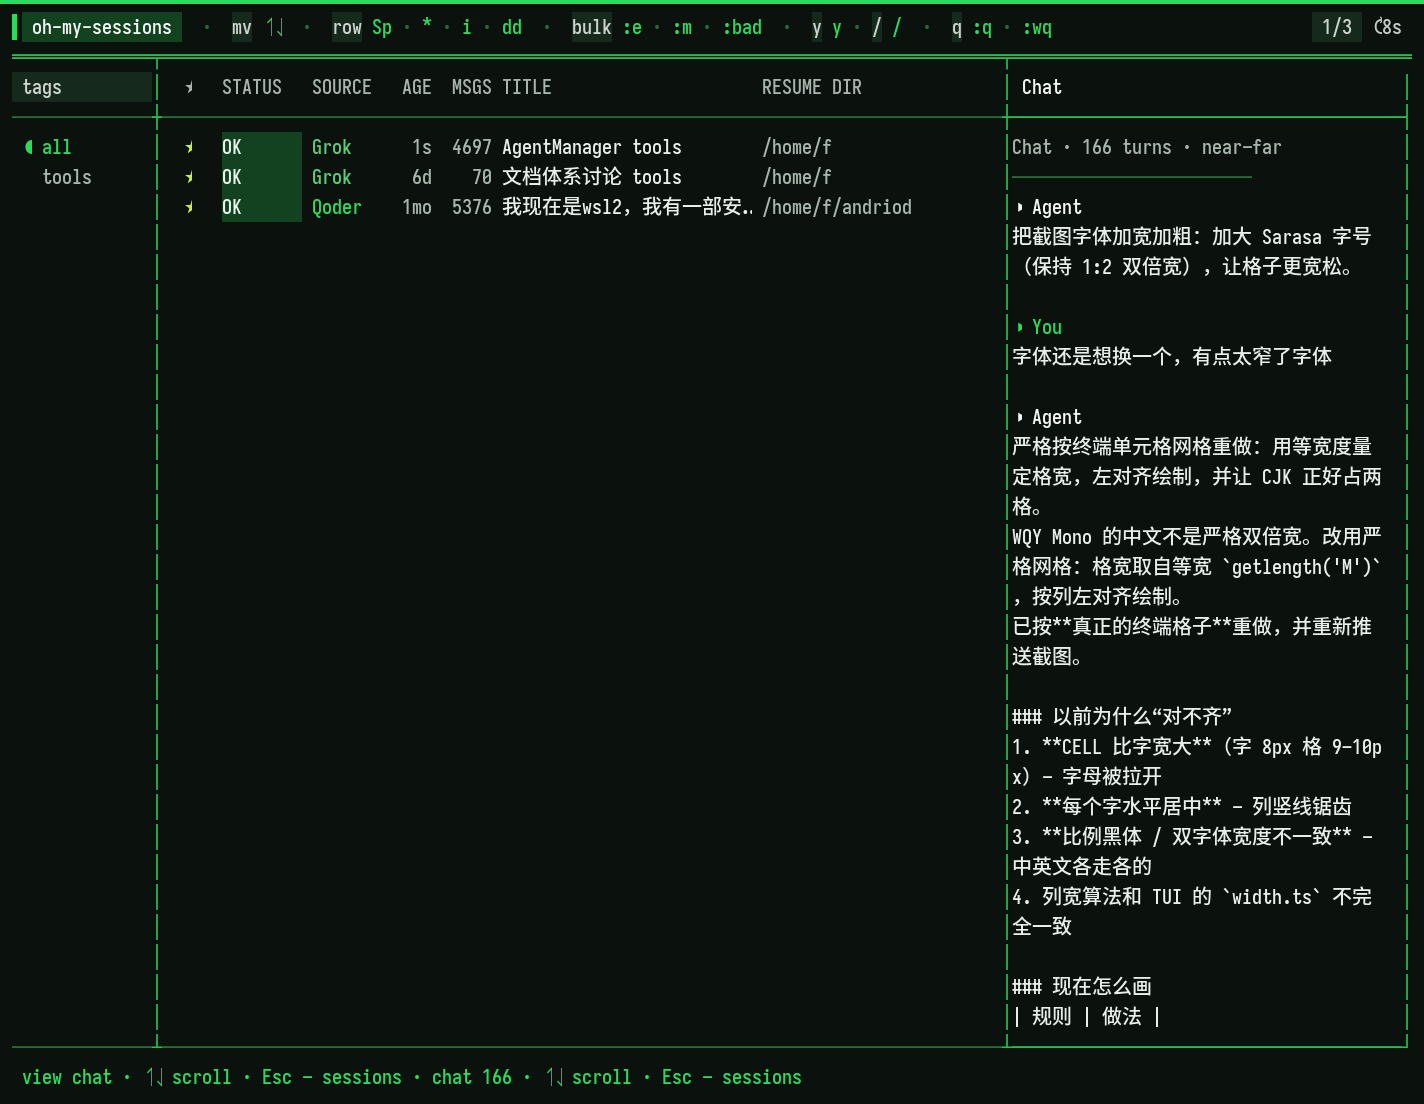
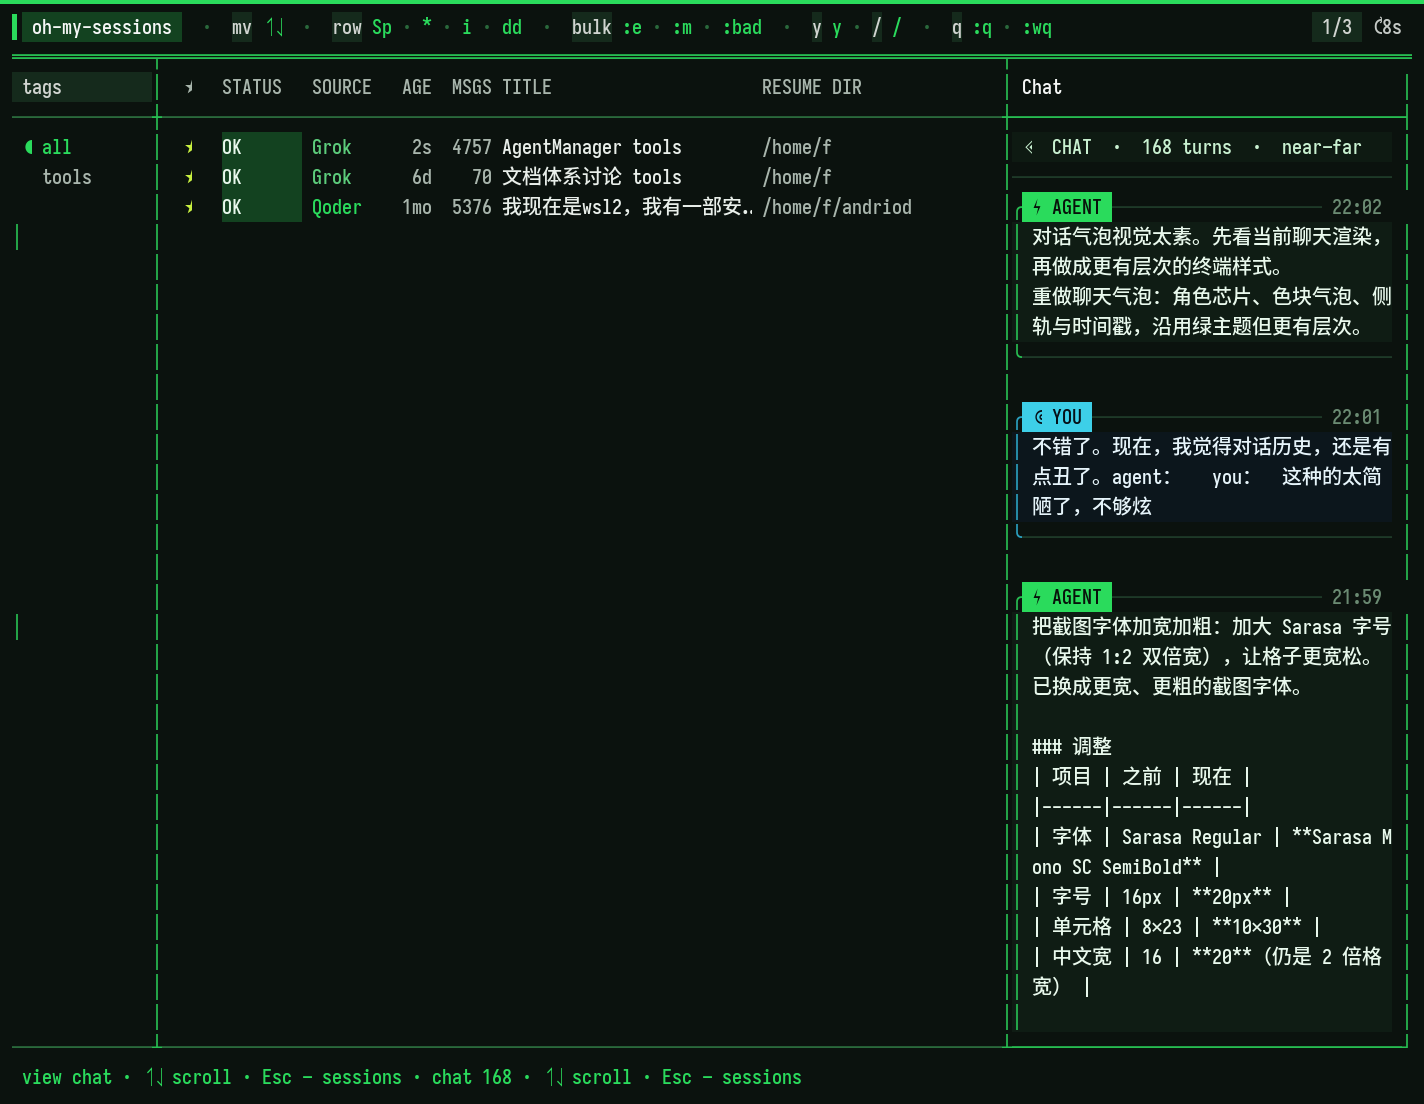
feat(chat): bubble UI for transcript pane
Replace plain You/Agent labels with role chips, colored rails,
soft body backgrounds, and frame lines (agent green / you cyan).

Changed region(s): [[0.7107, 0.1232, 0.9888, 0.9239], [0.309, 0.1232, 0.3399, 0.154]]

diff --git a/src/tui/rawApp.ts b/src/tui/rawApp.ts
@@ -31,7 +31,6 @@ import {
 } from "../lib/tag-store.js";
 import {
   readTranscript,
-  roleLabel,
   type TranscriptTurn,
 } from "../lib/transcript.js";
 import { sortKeyLastActive } from "../lib/time.js";
@@ -1083,35 +1082,143 @@ export async function runRawTui(
     return out;
   }
 
-  /** Build chat display lines (newest first). */
+  /** Short clock for chat bubble headers (local HH:MM). */
+  function chatTimeLabel(at?: string | null): string {
+    if (!at) return "";
+    const d = new Date(at);
+    if (Number.isNaN(d.getTime())) return "";
+    const hh = String(d.getHours()).padStart(2, "0");
+    const mm = String(d.getMinutes()).padStart(2, "0");
+    return `${hh}:${mm}`;
+  }
+
+  type ChatStyle = {
+    badgeFg: string;
+    badgeBg: string;
+    rail: string;
+    bodyBg: string;
+    text: string;
+    icon: string;
+    title: string;
+  };
+
+  function chatStyleFor(role: string): ChatStyle {
+    const c = theme.chat;
+    switch (role) {
+      case "user":
+        return {
+          badgeFg: c.userBadgeFg,
+          badgeBg: c.userBadgeBg,
+          rail: c.userRail,
+          bodyBg: c.userBodyBg,
+          text: c.userText,
+          icon: "◎",
+          title: "YOU",
+        };
+      case "tool":
+        return {
+          badgeFg: c.toolBadgeFg,
+          badgeBg: c.toolBadgeBg,
+          rail: c.toolRail,
+          bodyBg: c.toolBodyBg,
+          text: c.toolText,
+          icon: "⚙",
+          title: "TOOL",
+        };
+      case "thought":
+        return {
+          badgeFg: c.thinkBadgeFg,
+          badgeBg: c.thinkBadgeBg,
+          rail: c.thinkRail,
+          bodyBg: c.thinkBodyBg,
+          text: c.thinkText,
+          icon: "…",
+          title: "THINK",
+        };
+      default:
+        return {
+          badgeFg: c.agentBadgeFg,
+          badgeBg: c.agentBadgeBg,
+          rail: c.agentRail,
+          bodyBg: c.agentBodyBg,
+          text: c.agentText,
+          icon: "⚡",
+          title: "AGENT",
+        };
+    }
+  }
+
+  /** Full-width cell on custom bg (bubble body / header bar). */
+  function cellLine(fgHex: string, bgHex: string, plain: string, w: number): string {
+    return fgBg(fgHex, bgHex, padEndWidth(truncateWidth(plain, w), w));
+  }
+
+  /**
+   * Build chat display lines (newest first).
+   * Bubble layout: badge chip + soft body + left rail (not plain "You:"/"Agent:").
+   */
   function rebuildChatLines(innerW: number): void {
     const lines: string[] = [];
+    const w = Math.max(12, innerW);
+
     if (chatTurns.length === 0) {
-      lines.push(fg(theme.dim, "(no messages)"));
+      lines.push(
+        cellLine(
+          theme.dim,
+          theme.chat.headerBg,
+          "  ·  no messages in this session",
+          w,
+        ),
+      );
       chatLines = lines;
       return;
     }
-    lines.push(
-      fg(
-        theme.dim,
-        padEndWidth(`Chat · ${chatTurns.length} turns · near→far`, innerW),
-      ),
-    );
-    lines.push(fg(theme.line, "─".repeat(Math.min(innerW, 24))));
+
+    // ── header strip ──
+    const head = ` ◈  CHAT  ·  ${chatTurns.length} turns  ·  near→far `;
+    lines.push(cellLine(theme.chat.headerFg, theme.chat.headerBg, head, w));
+    lines.push(cellLine(theme.chat.frame, theme.canvas, "─".repeat(w), w));
+
     for (const turn of chatTurns) {
-      const label = roleLabel(turn.role);
-      const color =
-        turn.role === "user"
-          ? theme.accent
-          : turn.role === "assistant"
-            ? theme.title
-            : theme.dim;
-      lines.push(fg(color, padEndWidth(`▸ ${label}`, innerW)));
-      for (const wl of wrapPlain(turn.text, Math.max(4, innerW - 1))) {
-        lines.push(fg(theme.text, padEndWidth(wl, innerW)));
+      const st = chatStyleFor(turn.role);
+      const time = chatTimeLabel(turn.at);
+      const badgeText = ` ${st.icon} ${st.title} `;
+      const badge = fgBg(st.badgeFg, st.badgeBg, badgeText);
+      const badgeW = displayWidth(badgeText);
+      const timePart = time ? ` ${time} ` : "";
+      const timeW = displayWidth(timePart);
+      const ruleW = Math.max(0, w - 1 - badgeW - timeW);
+      const rule = "─".repeat(ruleW);
+      // top: rail + badge + rule + time
+      lines.push(
+        fgBg(st.rail, theme.canvas, "╭") +
+          badge +
+          fg(theme.chat.frame, rule) +
+          (time ? fg(theme.chat.timeFg, timePart) : "") +
+          sgrDefault(),
+      );
+
+      const bodyW = Math.max(4, w - 2); // "│ " + text
+      const wrapped = wrapPlain(turn.text, bodyW);
+      const bodyLines = wrapped.length > 0 ? wrapped : [" "];
+      for (const wl of bodyLines) {
+        lines.push(
+          fgBg(st.rail, st.bodyBg, "│") +
+            fgBg(st.text, st.bodyBg, " " + padEndWidth(wl, bodyW)) +
+            sgrDefault(),
+        );
       }
-      lines.push("");
+
+      // bottom frame
+      lines.push(
+        fgBg(st.rail, theme.canvas, "╰") +
+          fg(theme.chat.frame, "─".repeat(Math.max(0, w - 1))) +
+          sgrDefault(),
+      );
+      // air between bubbles
+      lines.push(fg(theme.canvas, padEndWidth("", w)));
     }
+
     chatLines = lines;
   }
 

diff --git a/src/tui/theme.ts b/src/tui/theme.ts
@@ -71,4 +71,35 @@ export const theme = {
     missingBg: "#3E2A22",
     missingFg: "#FFD0B0",
   },
+
+  /**
+   * Chat transcript bubbles (right pane).
+   * Agent = brand green; You = cool cyan; keep contrast on canvas.
+   */
+  chat: {
+    headerFg: "#C8F0D0",
+    headerBg: "#0E1A12",
+    agentBadgeFg: "#08120B",
+    agentBadgeBg: "#2ADB5C",
+    agentRail: "#27BD51",
+    agentBodyBg: "#0F1C14",
+    agentText: "#E8F8EC",
+    userBadgeFg: "#061018",
+    userBadgeBg: "#3DCFE8",
+    userRail: "#2A9FBE",
+    userBodyBg: "#0C161C",
+    userText: "#E6F4FA",
+    toolBadgeFg: "#1A1408",
+    toolBadgeBg: "#E8C060",
+    toolRail: "#B8943A",
+    toolBodyBg: "#1A1810",
+    toolText: "#F0E8D0",
+    thinkBadgeFg: "#E0E4E0",
+    thinkBadgeBg: "#2A322E",
+    thinkRail: "#4A5550",
+    thinkBodyBg: "#121614",
+    thinkText: "#A8B5AC",
+    timeFg: "#6A8A72",
+    frame: "#1E3A28",
+  },
 } as const;
